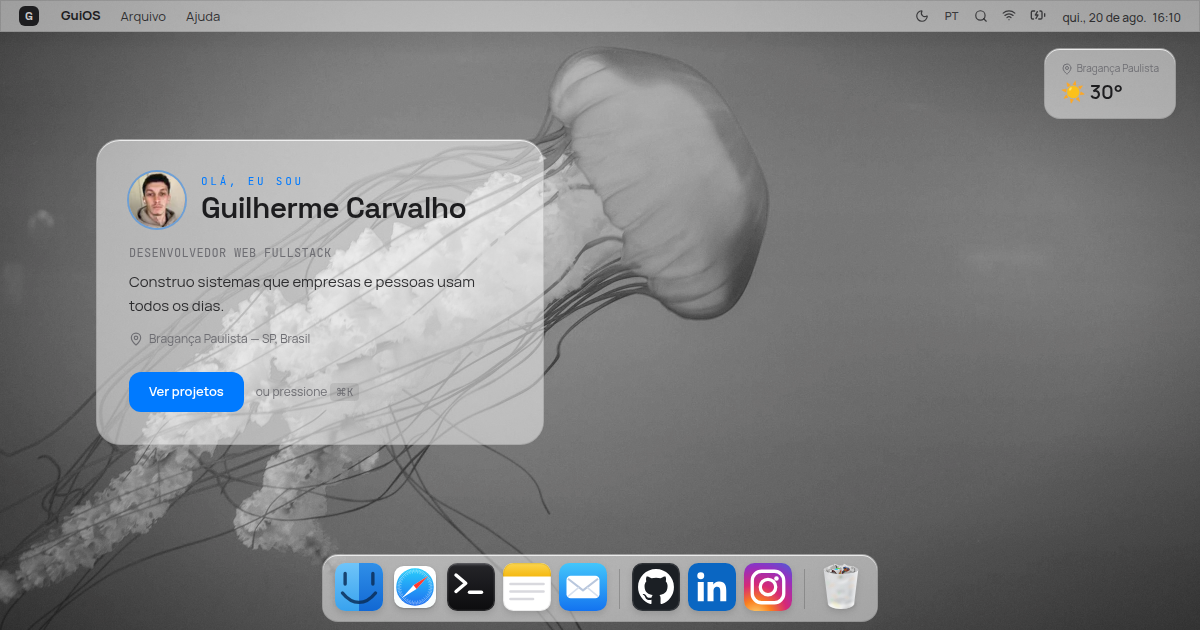
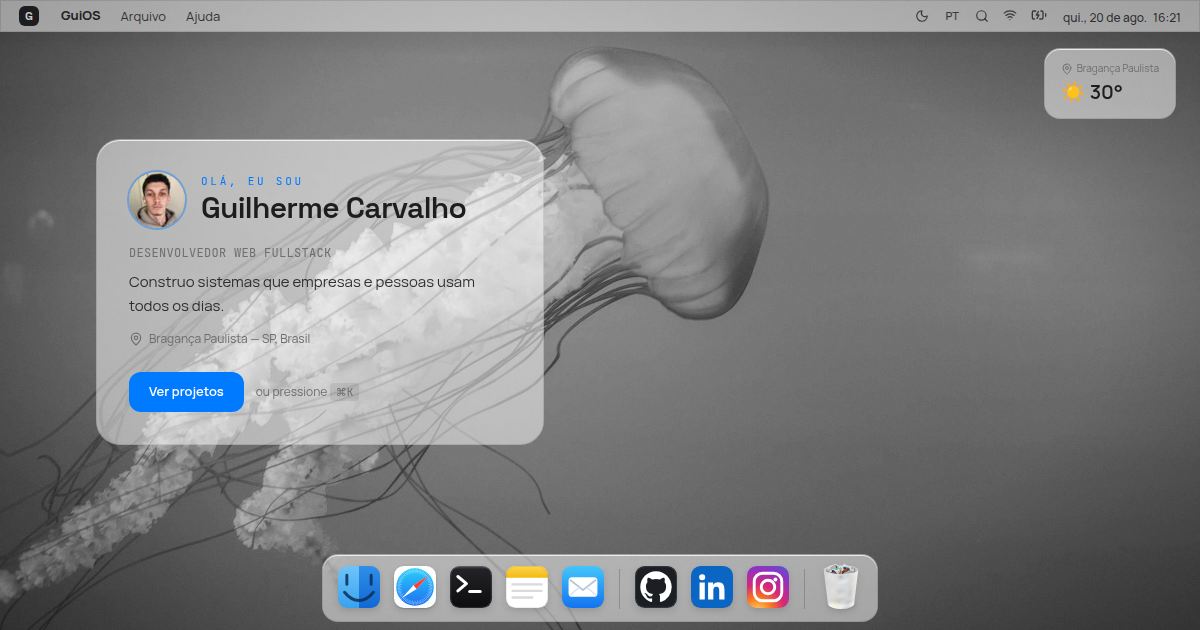
PORTFOLIO | FIX | padrao unico de icones: squircle 56x56 rx13 com margem de 4px em todos (geometria WhiteSur), safari original

Changed region(s): [[0.37, 0.8746, 0.6783, 0.9952], [0.8325, 0.0, 0.9867, 0.0603], [0.2775, 0.8746, 0.3392, 0.9952]]

diff --git a/src/components/ui/app-icons.tsx b/src/components/ui/app-icons.tsx
@@ -5,6 +5,11 @@ interface IconProps {
   className?: string;
 }
 
+// Geometria padrão dos ícones (a mesma dos assets WhiteSur): squircle 56×56
+// com 4px de margem e raio ~13, dentro de um viewBox 64×64. Os ícones
+// desenhados à mão usam este grupo para escalar o desenho ao padrão.
+const TILE = { transform: "translate(4 4) scale(0.875)" };
+
 export function FinderIcon({ className }: IconProps) {
   return (
     <svg viewBox="0 0 64 64" className={className} aria-hidden>
@@ -18,33 +23,20 @@ export function FinderIcon({ className }: IconProps) {
           <stop offset="1" stopColor="#1268d3" />
         </linearGradient>
       </defs>
-      <rect width="64" height="64" rx="14" fill="url(#fndL)" />
-      <path d="M32 0h18a14 14 0 0 1 14 14v36a14 14 0 0 1-14 14H32Z" fill="url(#fndR)" />
-      <path d="M13.5 14v14M50.5 14v14" stroke="#0b2e59" strokeWidth="4.5" strokeLinecap="round" opacity="0.85" />
-      <path d="M10 40c6.8 8.5 14 12.5 22 12.5s15.2-4 22-12.5" fill="none" stroke="#0b2e59" strokeWidth="4.5" strokeLinecap="round" opacity="0.85" />
+      <g transform={TILE.transform}>
+        <rect width="64" height="64" rx="14.9" fill="url(#fndL)" />
+        <path d="M32 0h18a14 14 0 0 1 14 14v36a14 14 0 0 1-14 14H32Z" fill="url(#fndR)" />
+        <path d="M13.5 14v14M50.5 14v14" stroke="#0b2e59" strokeWidth="4.5" strokeLinecap="round" opacity="0.85" />
+        <path d="M10 40c6.8 8.5 14 12.5 22 12.5s15.2-4 22-12.5" fill="none" stroke="#0b2e59" strokeWidth="4.5" strokeLinecap="round" opacity="0.85" />
+      </g>
     </svg>
   );
 }
 
 export function SafariIcon({ className }: IconProps) {
   // Ícone original do tema WhiteSur (GPL-3, crédito no README).
-  // Squircle branco em tamanho cheio (desenhado aqui) + bússola encolhida
-  // dentro: o fundo branco do próprio asset some contra o nosso.
-  return (
-    <span
-      className={`relative block overflow-hidden rounded-[22%] bg-white ring-1 ring-black/10 ${className ?? ""}`}
-      aria-hidden
-    >
-      {/* eslint-disable-next-line @next/next/no-img-element */}
-      <img
-        src="/app-safari.svg"
-        alt=""
-        className="h-full w-full"
-        style={{ transform: "scale(0.86)" }}
-        draggable={false}
-      />
-    </span>
-  );
+  // eslint-disable-next-line @next/next/no-img-element
+  return <img src="/app-safari.svg" alt="" className={className} draggable={false} aria-hidden />;
 }
 
 export function TerminalMacIcon({ className }: IconProps) {
@@ -57,10 +49,12 @@ export function TerminalMacIcon({ className }: IconProps) {
           <stop offset="1" stopColor="#0c0c0e" />
         </linearGradient>
       </defs>
-      <rect width="64" height="64" rx="14" fill="url(#trm)" />
-      <rect x="1" y="1" width="62" height="62" rx="13" fill="none" stroke="rgba(255,255,255,0.14)" strokeWidth="1.5" />
-      <path d="M12 16l13 11-13 11" fill="none" stroke="#fff" strokeWidth="4.6" strokeLinecap="round" strokeLinejoin="round" />
-      <path d="M30 39h16" stroke="#fff" strokeWidth="4.6" strokeLinecap="round" />
+      <g transform={TILE.transform}>
+        <rect width="64" height="64" rx="14.9" fill="url(#trm)" />
+        <rect x="1" y="1" width="62" height="62" rx="13.9" fill="none" stroke="rgba(255,255,255,0.14)" strokeWidth="1.5" />
+        <path d="M12 16l13 11-13 11" fill="none" stroke="#fff" strokeWidth="4.6" strokeLinecap="round" strokeLinejoin="round" />
+        <path d="M30 39h16" stroke="#fff" strokeWidth="4.6" strokeLinecap="round" />
+      </g>
     </svg>
   );
 }
@@ -74,12 +68,14 @@ export function NotesIcon({ className }: IconProps) {
           <stop offset="1" stopColor="#f5b912" />
         </linearGradient>
       </defs>
-      <rect width="64" height="64" rx="14" fill="#ffffff" />
-      <path d="M0 14C0 6.3 6.3 0 14 0h36c7.7 0 14 6.3 14 14v4H0v-4Z" fill="url(#nts)" />
-      <g stroke="#d9d9de" strokeWidth="3.6" strokeLinecap="round">
-        <path d="M10 28h44M10 38h44M10 48h30" />
+      <g transform={TILE.transform}>
+        <rect width="64" height="64" rx="14.9" fill="#ffffff" />
+        <path d="M0 14C0 6.3 6.3 0 14 0h36c7.7 0 14 6.3 14 14v4H0v-4Z" fill="url(#nts)" />
+        <g stroke="#d9d9de" strokeWidth="3.6" strokeLinecap="round">
+          <path d="M10 28h44M10 38h44M10 48h30" />
+        </g>
+        <rect x="0.75" y="0.75" width="62.5" height="62.5" rx="14.15" fill="none" stroke="rgba(0,0,0,0.08)" strokeWidth="1.5" />
       </g>
-      <rect x="0.75" y="0.75" width="62.5" height="62.5" rx="13.25" fill="none" stroke="rgba(0,0,0,0.08)" strokeWidth="1.5" />
     </svg>
   );
 }
@@ -93,10 +89,12 @@ export function MailIcon({ className }: IconProps) {
           <stop offset="1" stopColor="#1373f0" />
         </linearGradient>
       </defs>
-      <rect width="64" height="64" rx="14" fill="url(#mml)" />
-      <rect x="10" y="17" width="44" height="30" rx="5.5" fill="#ffffff" />
-      <path d="M12 21l20 15.5L52 21" fill="none" stroke="#b9c7dd" strokeWidth="2.8" strokeLinejoin="round" />
-      <path d="M12 44.5l14.5-12M52 44.5l-14.5-12" fill="none" stroke="#d7e0ee" strokeWidth="2.1" />
+      <g transform={TILE.transform}>
+        <rect width="64" height="64" rx="14.9" fill="url(#mml)" />
+        <rect x="10" y="17" width="44" height="30" rx="5.5" fill="#ffffff" />
+        <path d="M12 21l20 15.5L52 21" fill="none" stroke="#b9c7dd" strokeWidth="2.8" strokeLinejoin="round" />
+        <path d="M12 44.5l14.5-12M52 44.5l-14.5-12" fill="none" stroke="#d7e0ee" strokeWidth="2.1" />
+      </g>
     </svg>
   );
 }
@@ -104,10 +102,12 @@ export function MailIcon({ className }: IconProps) {
 export function GitHubTileIcon({ className }: IconProps) {
   return (
     <svg viewBox="0 0 64 64" className={className} aria-hidden>
-      <rect width="64" height="64" rx="14" fill="#1b1f24" />
-      <rect x="1" y="1" width="62" height="62" rx="13" fill="none" stroke="rgba(255,255,255,0.12)" strokeWidth="1.5" />
+      <g transform={TILE.transform}>
+      <rect width="64" height="64" rx="14.9" fill="#1b1f24" />
+      <rect x="1" y="1" width="62" height="62" rx="13.9" fill="none" stroke="rgba(255,255,255,0.12)" strokeWidth="1.5" />
       <g transform="translate(7 7) scale(2.083)" fill="#ffffff">
         <path d="M12 .5C5.65.5.5 5.65.5 12c0 5.08 3.29 9.39 7.86 10.91.58.11.79-.25.79-.55 0-.27-.01-1.17-.02-2.12-3.2.7-3.87-1.36-3.87-1.36-.52-1.33-1.28-1.68-1.28-1.68-1.04-.71.08-.7.08-.7 1.15.08 1.76 1.19 1.76 1.19 1.03 1.76 2.69 1.25 3.35.96.1-.75.4-1.25.72-1.54-2.55-.29-5.23-1.28-5.23-5.68 0-1.26.45-2.28 1.19-3.09-.12-.29-.52-1.46.11-3.05 0 0 .97-.31 3.18 1.18a11.1 11.1 0 0 1 5.8 0c2.2-1.49 3.17-1.18 3.17-1.18.63 1.59.23 2.76.11 3.05.74.81 1.19 1.83 1.19 3.09 0 4.41-2.69 5.38-5.25 5.67.41.35.77 1.05.77 2.12 0 1.53-.01 2.76-.01 3.14 0 .3.2.66.8.55A11.51 11.51 0 0 0 23.5 12C23.5 5.65 18.35.5 12 .5Z" />
+      </g>
       </g>
     </svg>
   );
@@ -116,9 +116,11 @@ export function GitHubTileIcon({ className }: IconProps) {
 export function LinkedInTileIcon({ className }: IconProps) {
   return (
     <svg viewBox="0 0 64 64" className={className} aria-hidden>
-      <rect width="64" height="64" rx="14" fill="#0a66c2" />
+      <g transform={TILE.transform}>
+      <rect width="64" height="64" rx="14.9" fill="#0a66c2" />
       <g transform="translate(5 5) scale(2.25)" fill="#ffffff">
         <path d="M20.45 20.45h-3.55v-5.57c0-1.33-.03-3.04-1.85-3.04-1.86 0-2.14 1.45-2.14 2.94v5.67H9.35V9h3.41v1.56h.05c.48-.9 1.64-1.85 3.37-1.85 3.6 0 4.27 2.37 4.27 5.46v6.28ZM5.34 7.43a2.06 2.06 0 1 1 0-4.12 2.06 2.06 0 0 1 0 4.12ZM7.12 20.45H3.56V9h3.56v11.45Z" />
+      </g>
       </g>
     </svg>
   );
@@ -148,10 +150,12 @@ export function InstagramTileIcon({ className }: IconProps) {
           <stop offset="1" stopColor="#4f5bd5" />
         </radialGradient>
       </defs>
-      <rect width="64" height="64" rx="14" fill="url(#igg)" />
-      <rect x="11" y="11" width="42" height="42" rx="12.5" fill="none" stroke="#ffffff" strokeWidth="4.4" />
-      <circle cx="32" cy="32" r="10.3" fill="none" stroke="#ffffff" strokeWidth="4.4" />
-      <circle cx="43.3" cy="20.7" r="3" fill="#ffffff" />
+      <g transform={TILE.transform}>
+        <rect width="64" height="64" rx="14.9" fill="url(#igg)" />
+        <rect x="11" y="11" width="42" height="42" rx="12.5" fill="none" stroke="#ffffff" strokeWidth="4.4" />
+        <circle cx="32" cy="32" r="10.3" fill="none" stroke="#ffffff" strokeWidth="4.4" />
+        <circle cx="43.3" cy="20.7" r="3" fill="#ffffff" />
+      </g>
     </svg>
   );
 }
